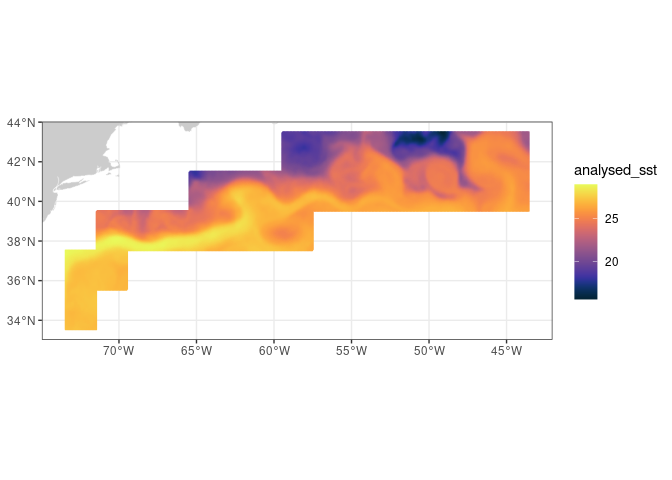
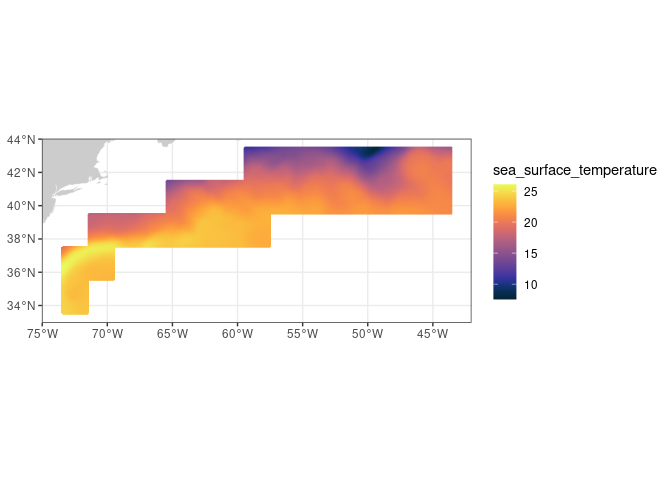
made changes to extract-satellite-data-within-boundary/R to match python version.

diff --git a/extract-satellite-data-within-boundary/R/extract-satellite-data-within-boundary.md b/extract-satellite-data-within-boundary/R/extract-satellite-data-within-boundary.md
@@ -31,12 +31,12 @@ will then plot a yearly seasonal cycle from within the boundary.
 ## Datasets used
 
 **NOAA Geo-polar Blended Analysis Sea-Surface Temperature, Global,
-Daily, 5km, 2019-Present**  
+Monthlyly, 5km, 2019-Present**  
 The NOAA geo-polar blended SST is a high resolution satellite-based
 gap-free sea surface temperature (SST) product that combines SST data
 from US, Japanese and European geostationary infrared imagers, and
 low-earth orbiting infrared (U.S. and European) SST data, into a single
-product.  
+product. We will use the monthly composite.
 <https://coastwatch.pfeg.noaa.gov/erddap/griddap/NOAA_DHW_monthly>
 
 **Longhurst Marine Provinces**  
@@ -129,27 +129,26 @@ the data.
 erd_url = "http://coastwatch.pfeg.noaa.gov/erddap/"
 
 # Obtain data info using the erddap url and dataset ID
-dataInfo <- rerddap::info('nesdisBLENDEDsstDNDaily',url=erd_url)  
+dataInfo <- rerddap::info('NOAA_DHW_monthly',url=erd_url)  
 
 # Examine the metadata dataset info
 dataInfo
 ```
 
-    ## <ERDDAP info> nesdisBLENDEDsstDNDaily 
+    ## <ERDDAP info> NOAA_DHW_monthly 
     ##  Base URL: http://coastwatch.pfeg.noaa.gov/erddap 
     ##  Dataset Type: griddap 
     ##  Dimensions (range):  
-    ##      time: (2019-07-22T12:00:00Z, 2023-09-10T12:00:00Z) 
+    ##      time: (1985-01-16T00:00:00Z, 2023-08-16T00:00:00Z) 
     ##      latitude: (-89.975, 89.975) 
     ##      longitude: (-179.975, 179.975) 
     ##  Variables:  
-    ##      analysed_sst: 
-    ##          Units: degree_C 
-    ##      analysis_error: 
-    ##          Units: degree_C 
     ##      mask: 
-    ##      sea_ice_fraction: 
-    ##          Units: 1
+    ##          Units: pixel_classification 
+    ##      sea_surface_temperature: 
+    ##          Units: degree_C 
+    ##      sea_surface_temperature_anomaly: 
+    ##          Units: degree_C
 
 ## Set the options for the polygon data extract
 
@@ -158,19 +157,13 @@ from erddap. The **rxtractogon** function takes the variable(s) of
 interest and the coordinates as input.
 
 - For the coordinates: determine the range of x, y, z, and time.
-- time coordinate: The time variable passed to xtractogon must contain
-  two elements: the start and end points of the desired time period.
-  This example uses ERDDAP’s **last** option to retrieve data from the
-  most recent time step. The **last** option also accepts the minus
-  **-** operator. To request the time step with the second most recent
-  data use “last-1”. In the script below the time variable (tcoord) is
-  defined as **tcoord \<- c(“last-5”, “last”)**
+- time coordinate: select the entire year of 2020
 
 ``` r
 # set the parameter to extract
-parameter <- 'analysed_sst'
+parameter <- 'sea_surface_temperature'
 # set the time range
-tcoord <- c("last-5", "last-1")
+tcoord <- c("2020-01-16", "2020-12-16")
 
 # We already extracted the xcoord (longitude) and ycoord (latitude) from the shapefiles 
 # The dummy code below is just a placeholder indicating it is necessary to define what the longitude and latitude vectors are that make up the boundary of the polygon.
@@ -194,12 +187,12 @@ str(satdata)
 ```
 
     ## List of 6
-    ##  $ analysed_sst: num [1:600, 1:201, 1:5] 26.9 26.9 26.8 26.8 26.8 ...
-    ##  $ datasetname : chr "nesdisBLENDEDsstDNDaily"
-    ##  $ longitude   : num [1:600(1d)] -73.5 -73.4 -73.4 -73.3 -73.3 ...
-    ##  $ latitude    : num [1:201(1d)] 33.5 33.6 33.6 33.7 33.7 ...
-    ##  $ altitude    : logi NA
-    ##  $ time        : POSIXlt[1:5], format: "2023-09-05 12:00:00" "2023-09-06 12:00:00" ...
+    ##  $ sea_surface_temperature: num [1:601, 1:202, 1:12] NA NA NA NA NA NA NA NA NA NA ...
+    ##  $ datasetname            : chr "NOAA_DHW_monthly"
+    ##  $ longitude              : num [1:601(1d)] -73.5 -73.5 -73.4 -73.4 -73.3 ...
+    ##  $ latitude               : num [1:202(1d)] 33.5 33.5 33.6 33.6 33.7 ...
+    ##  $ altitude               : logi NA
+    ##  $ time                   : POSIXlt[1:12], format: "2020-01-16 00:00:00" "2020-02-16 00:00:00" ...
     ##  - attr(*, "class")= chr [1:2] "list" "rxtracto3D"
 
 ### Plot the data
@@ -211,4 +204,15 @@ str(satdata)
 plotBBox(satdata, plotColor = 'thermal',maxpixels=1000000)
 ```
 
-![](images/map-1.png)<!-- -->
+![](images/map-1.png)<!-- --> \### Plot the mean seasonal temperature
+for the province
+
+``` r
+sst_mean=apply(satdata$sea_surface_temperature,3,mean,na.rm=TRUE)
+```
+
+``` r
+plot(satdata$time,sst_mean,main='Gulf Stream Province Monthly Mean Temperature 2020',ylab='SSt (ºC)',xlab='',type='b')
+```
+
+![](images/unnamed-chunk-2-1.png)<!-- -->
